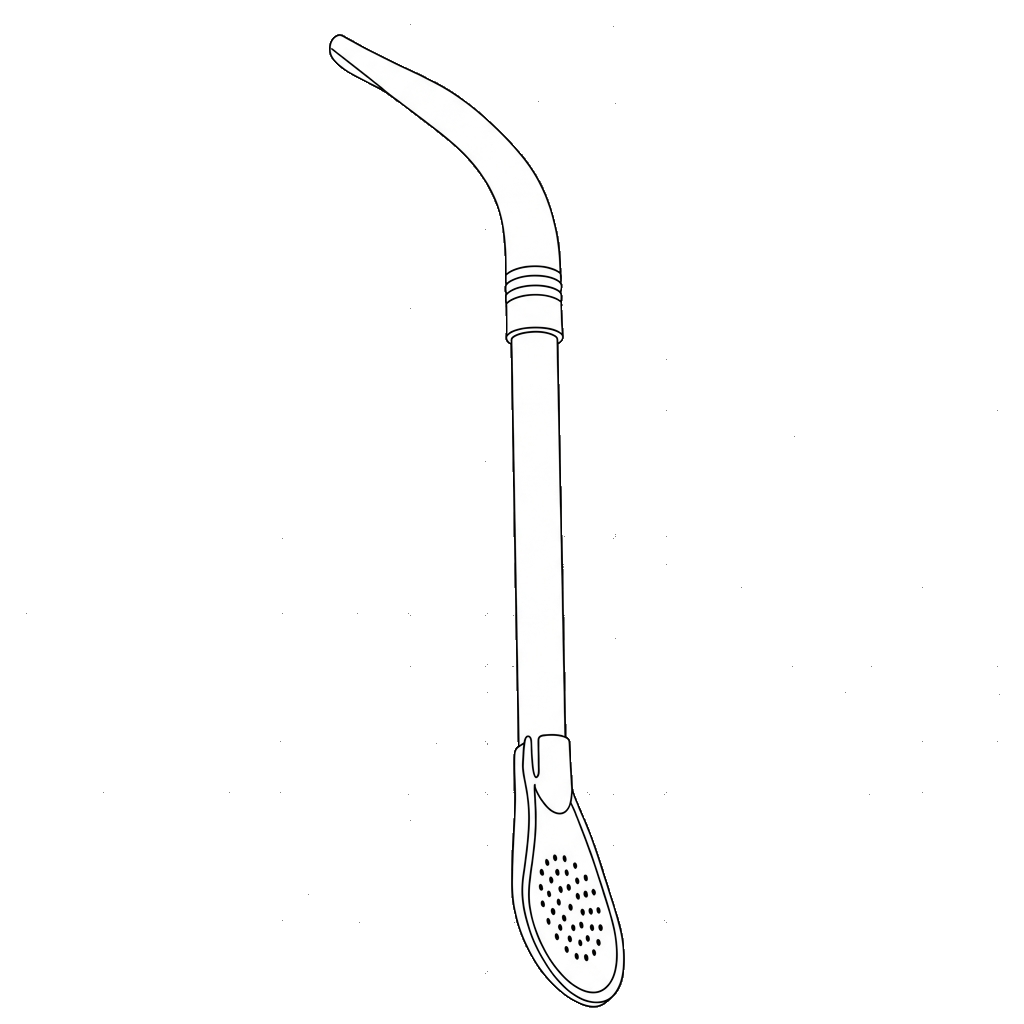
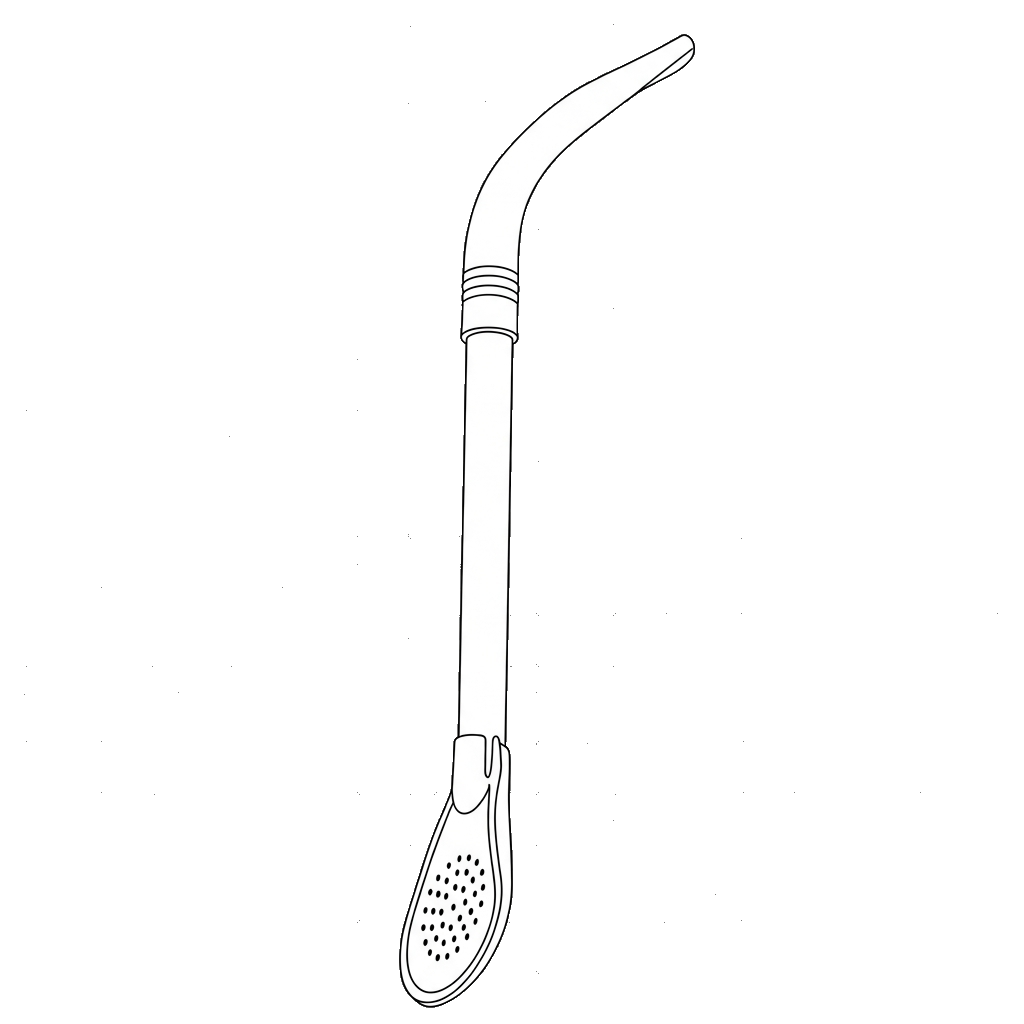
Loader: escena de marca calcada de la referencia (fondo claro)
Rearma la intro con los PNG reales: el termo grande inclinado ceba un
chorro celeste curvo sobre el mate terminado (bombilla, yerba y sol de
mayo) y la bolsa de yerba de la marca queda al costado. Fondo claro con
grilla sutil como la referencia. A los PNG con fondo pegado (mate y
bolsa) se les quitó el fondo con flood-fill.

diff --git a/components/mate/MateLlenado.tsx b/components/mate/MateLlenado.tsx
@@ -1,114 +1,64 @@
 import { cn } from '@/lib/utils';
 
-// Escena del loader: un termo inclinado vierte agua y el mate (con el logo2
-// de la marca) se va llenando. Todo con SVG + animaciones CSS para que sea
-// confiable (las animaciones de montaje de framer no lo son en este stack).
+// Escena del loader (calcada de la referencia de la marca): el termo grande
+// inclinado ceba un chorro curvo de agua sobre el mate terminado (con
+// bombilla y yerba), con la bolsa de yerba al costado. Compuesta con los PNG
+// reales de public/ + animaciones CSS (las de montaje de framer no son
+// confiables en este stack).
 export function MateLlenado({ className }: { className?: string }) {
-  const cuerpoMate =
-    'M 88,166 C 76,180 72,208 72,232 C 72,268 100,288 130,288 C 160,288 188,268 188,232 C 188,208 184,180 172,166 Z';
-
   return (
     <svg
-      viewBox="0 0 260 300"
-      className={cn('h-64 w-64', className)}
+      viewBox="0 0 520 300"
+      className={cn('h-auto w-full', className)}
       fill="none"
       xmlns="http://www.w3.org/2000/svg"
       aria-hidden="true"
     >
-      <defs>
-        <clipPath id="ml-mate-clip">
-          <path d={cuerpoMate} />
-        </clipPath>
-        <linearGradient id="ml-agua-grad" x1="0" y1="0" x2="0" y2="1">
-          {/* Agua celeste con brillo de superficie arriba. El degradado va con
-              el rect, así el brillo marca el nivel a medida que sube. */}
-          <stop offset="0%" stopColor="rgb(224 244 253 / 0.85)" />
-          <stop offset="5%" stopColor="rgb(74 168 221 / 0.7)" />
-          <stop offset="100%" stopColor="rgb(46 133 190 / 0.55)" />
-        </linearGradient>
-      </defs>
-
-      {/* Cuerpo del mate (blanco, para que el logo2 oscuro se vea sobre el
-          fondo negro del loader). */}
-      <path d={cuerpoMate} fill="#ffffff" />
-
-      {/* Logo2 de la marca, sobre el mate y recortado a su forma. */}
+      {/* Bolsa de yerba (derecha). */}
       <image
-        href="/logo2.png"
-        x="80"
-        y="176"
-        width="100"
-        height="100"
-        clipPath="url(#ml-mate-clip)"
+        href="/yerba.png"
+        x="272"
+        y="64"
+        width="225"
+        height="225"
         preserveAspectRatio="xMidYMid meet"
       />
 
-      {/* Agua que sube dentro del mate (se llena hasta ~3/4). */}
-      <g clipPath="url(#ml-mate-clip)">
-        <rect
-          className="ml-agua"
-          x="70"
-          y="200"
-          width="120"
-          height="92"
-          fill="url(#ml-agua-grad)"
-        />
-      </g>
-
-      {/* Boca del mate + insinuación de la yerba. */}
-      <ellipse
-        cx="130"
-        cy="166"
-        rx="42"
-        ry="10"
-        fill="#ffffff"
-        stroke="#0a0a0a"
-        strokeWidth="3"
-      />
-      <path
-        d="M 96,168 Q 130,180 164,168"
-        stroke="#0a0a0a"
-        strokeWidth="2.4"
-        fill="none"
-        opacity="0.4"
+      {/* Mate terminado, con bombilla y yerba (centro). */}
+      <image
+        href="/mate-terminado.png"
+        x="218"
+        y="80"
+        width="115"
+        height="181"
+        preserveAspectRatio="xMidYMid meet"
       />
 
-      {/* Bombilla (PNG): la punta con filtro va en la boca del mate y el pico
-          apunta a la derecha para no cruzar el chorro. */}
-      <g transform="translate(132 164) rotate(24)">
-        <image
-          href="/bombilla.png"
-          x="-78"
-          y="-128"
-          width="150"
-          height="150"
-          preserveAspectRatio="xMidYMid meet"
-        />
-      </g>
-
-      {/* Chorro de agua (celeste): curva desde el pico del termo hasta la boca
-          del mate. Se dibuja con stroke-dash (ver .ml-chorro). */}
+      {/* Chorro de agua (celeste): curva desde el pico del termo hasta la
+          yerba del mate. Se dibuja con stroke-dash (ver .ml-chorro). */}
       <path
         className="ml-chorro"
         pathLength="100"
-        d="M 121,113 C 129,126 133,147 129,163"
+        d="M 225,105 C 229,124 244,140 251,157"
         fill="none"
-        stroke="rgb(120 205 240 / 0.95)"
-        strokeWidth="4"
+        stroke="rgb(140 190 235 / 0.9)"
+        strokeWidth="3.2"
         strokeLinecap="round"
       />
 
-      {/* Termo (PNG): inclinado sobre el mate, con el pico apuntando a la boca
-          para verter. El grupo externo lo posiciona/inclina; el interno hace el
-          vaivén (pivotando en el pico) sin pisar el transform de posición. */}
-      <g transform="translate(112 116) rotate(98)">
+      {/* Termo: espejado y rotado para quedar acostado vertiendo desde el
+          pico, como en la referencia (cuerpo hacia arriba-izquierda, manija
+          arriba). El grupo externo ancla el pico en (225,105); el interno hace
+          el vaivén de cebado sin pisarlo. El pico del PNG está en
+          (fx 0.505, fy 0.125) => offsets -66 / -24 con 130x195. */}
+      <g transform="translate(225 105) rotate(106) scale(-1 1)">
         <g className="ml-verter" style={{ transformOrigin: '50% 0%' }}>
           <image
             href="/termo.png"
-            x="-52"
-            y="-14"
-            width="104"
-            height="156"
+            x="-66"
+            y="-24"
+            width="130"
+            height="195"
             preserveAspectRatio="xMidYMid meet"
           />
         </g>

diff --git a/components/mate/MateLoader.tsx b/components/mate/MateLoader.tsx
@@ -70,17 +70,22 @@ export function MateLoader() {
           role="status"
           aria-label={`Cargando ${NOMBRE_NEGOCIO}`}
           onClick={cerrar}
-          className="mate-loader fixed inset-0 z-[100] flex flex-col items-center justify-center overflow-hidden bg-tinta text-papel"
+          className="mate-loader fixed inset-0 z-[100] flex flex-col items-center justify-center overflow-hidden bg-[#f4f4f2] text-tinta"
+          style={{
+            backgroundImage:
+              'linear-gradient(rgb(10 10 10 / 0.045) 1px, transparent 1px), linear-gradient(90deg, rgb(10 10 10 / 0.045) 1px, transparent 1px)',
+            backgroundSize: '48px 48px',
+          }}
           initial={{ opacity: 1 }}
           exit={{ opacity: 0 }}
           transition={{ duration: 0.5, ease: 'easeInOut' }}
         >
-          <div className="ml-escena flex flex-col items-center">
-            {/* El termo llena el mate (con el logo) de agua. */}
-            <MateLlenado className="h-60 w-60 sm:h-72 sm:w-72" />
+          <div className="ml-escena flex w-full flex-col items-center">
+            {/* El termo ceba el mate, con la yerba de la marca al lado. */}
+            <MateLlenado className="w-[min(94vw,660px)]" />
 
             <p
-              className="animate-entrada -mt-2 font-display text-lg uppercase tracking-[0.3em] sm:text-xl"
+              className="animate-entrada mt-3 font-display text-lg uppercase tracking-[0.3em] sm:text-xl"
               style={{ animationDelay: '400ms' }}
             >
               {NOMBRE_NEGOCIO}
@@ -88,7 +93,7 @@ export function MateLoader() {
 
             {/* Línea que se extiende */}
             <span
-              className="mt-4 block h-px animate-crecer bg-papel/40"
+              className="mt-4 block h-px animate-crecer bg-tinta/30"
               style={{ width: 120, transformOrigin: 'center', animationDelay: '550ms' }}
             />
           </div>

diff --git a/app/globals.css b/app/globals.css
@@ -167,17 +167,6 @@ body {
     stroke-dashoffset: 0;
   }
 }
-/* Agua que sube dentro del mate (usar con transform-origin: bottom). */
-@keyframes ml-llenar {
-  0%,
-  26% {
-    transform: scaleY(0);
-  }
-  86%,
-  100% {
-    transform: scaleY(1);
-  }
-}
 .ml-escena {
   animation: ml-escena 0.6s cubic-bezier(0.22, 1, 0.36, 1) both;
 }
@@ -189,11 +178,6 @@ body {
 .ml-chorro {
   stroke-dasharray: 100;
   animation: ml-chorro 2s ease-in-out both;
-}
-.ml-agua {
-  transform-box: fill-box;
-  transform-origin: 50% 100%;
-  animation: ml-llenar 2s cubic-bezier(0.33, 0.66, 0.4, 1) both;
 }
 
 /* Respeta a quienes prefieren menos movimiento. */